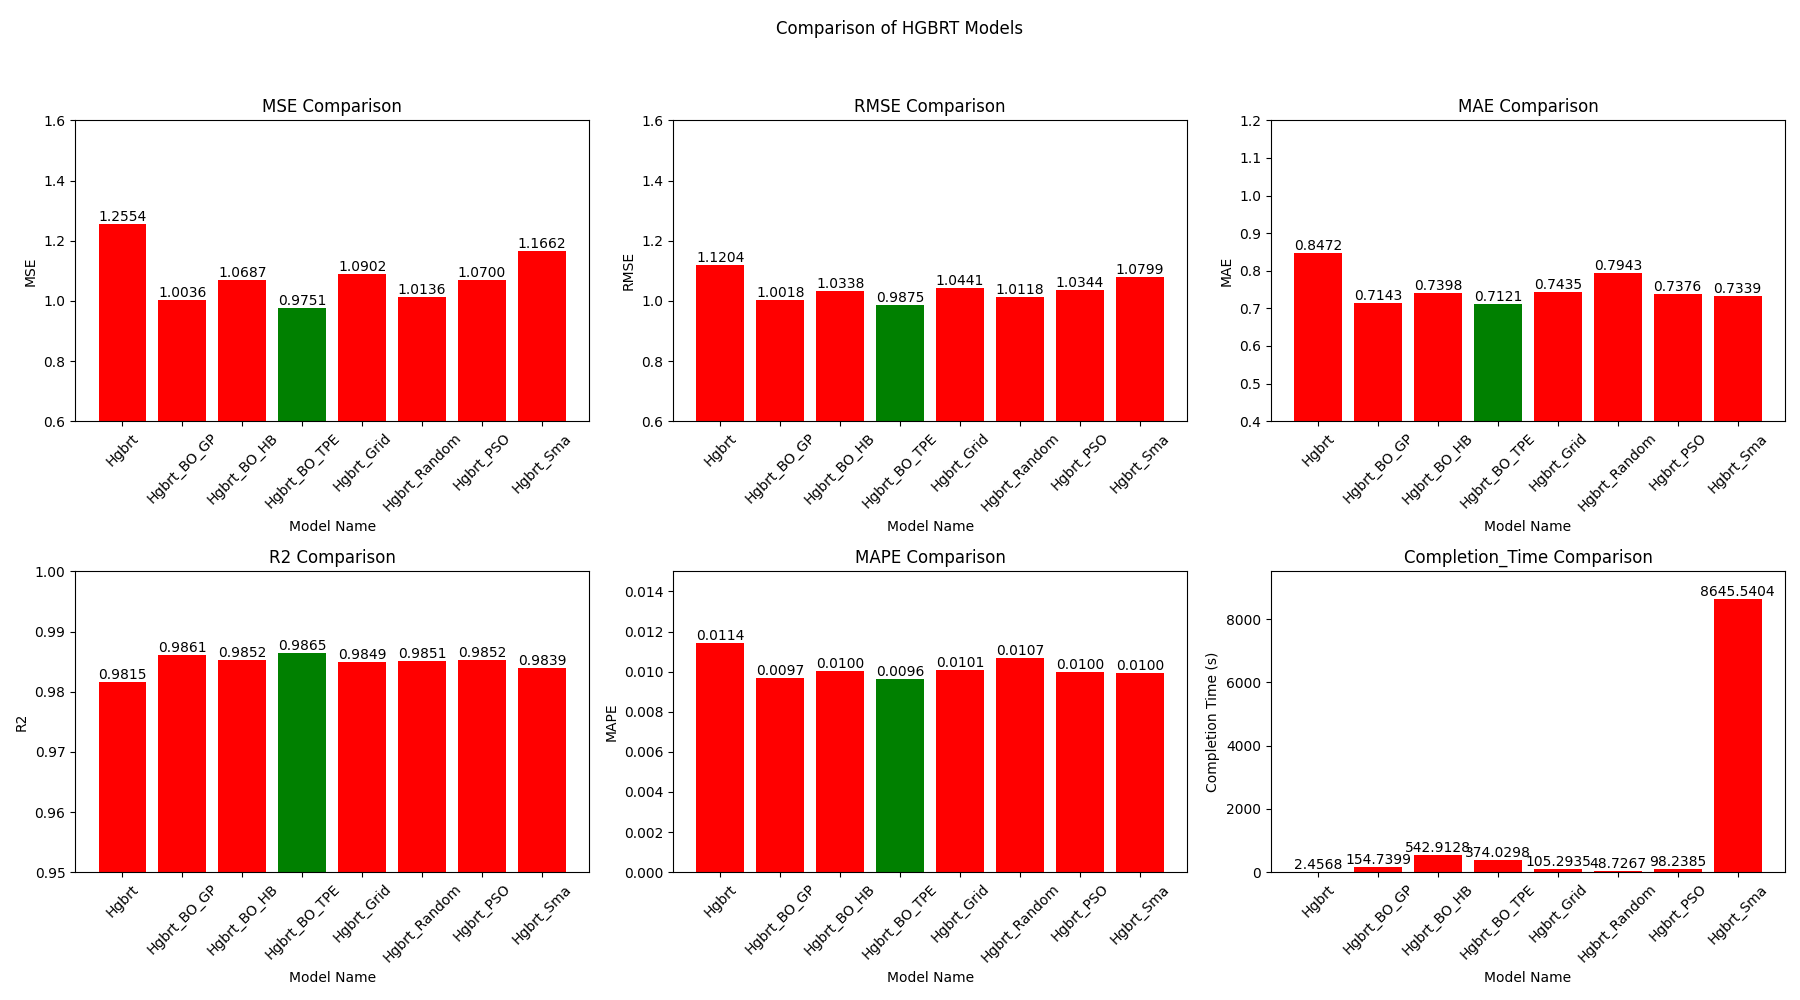
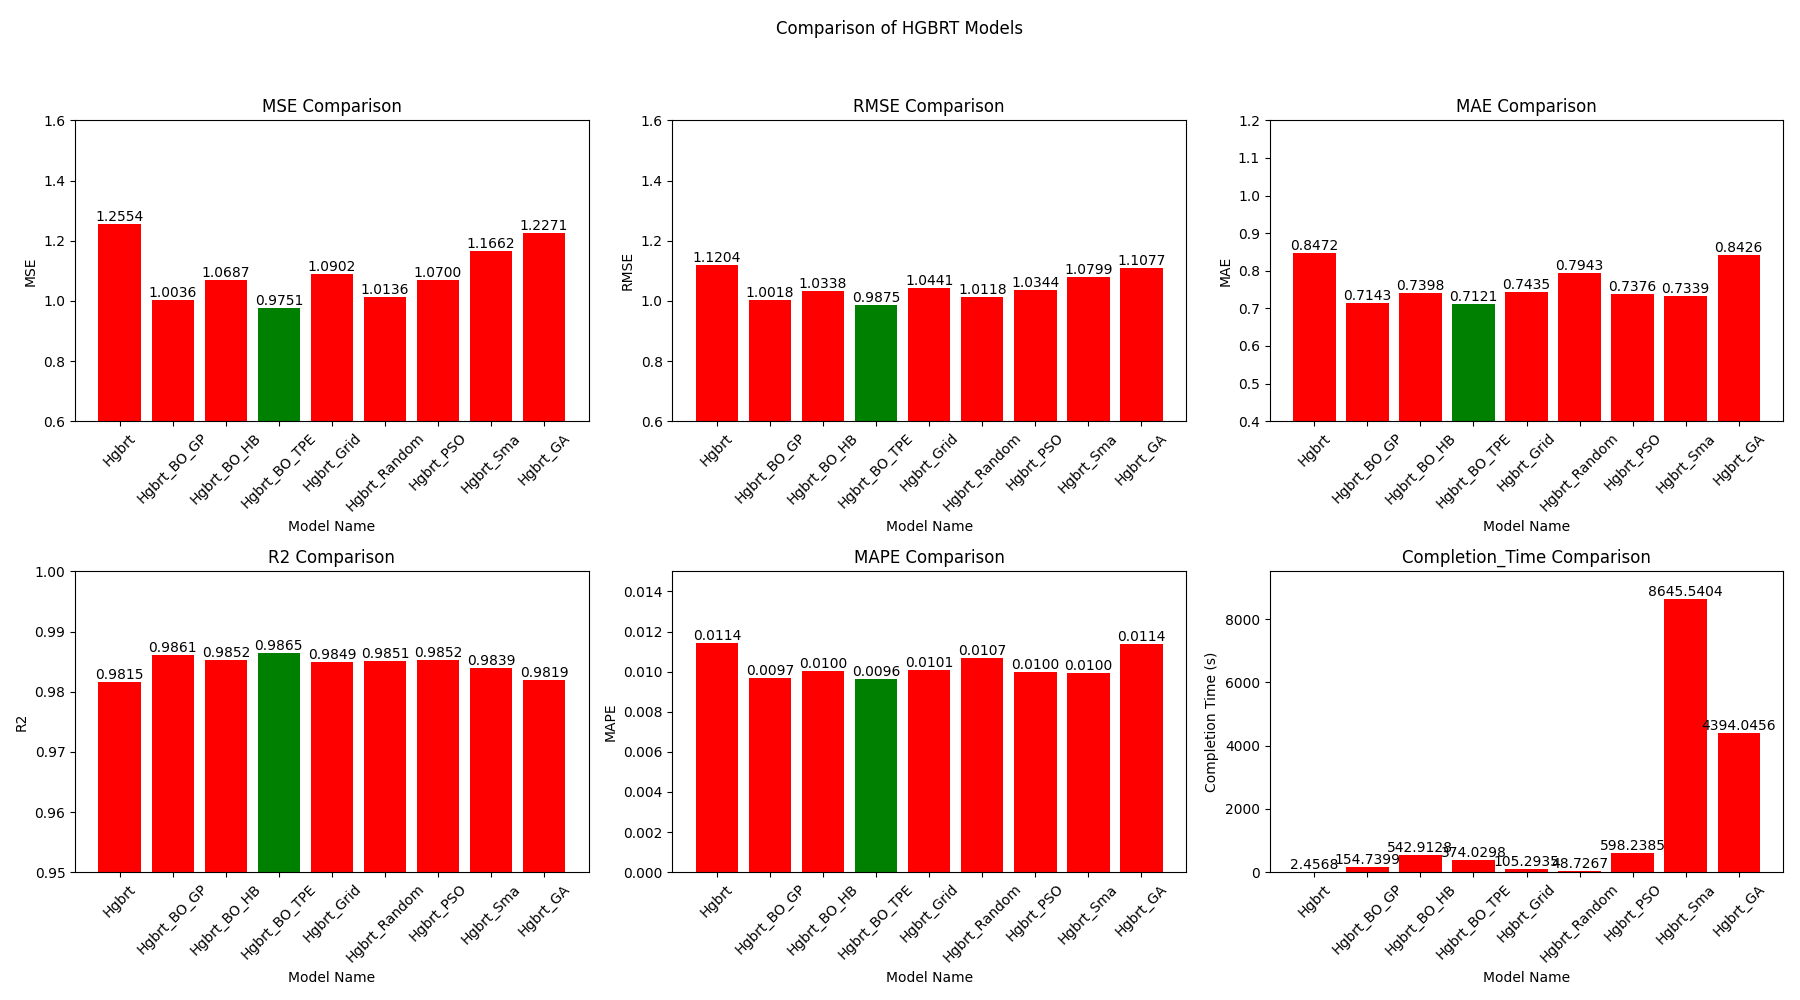
GA implemented with results

diff --git a/src/ga.py b/src/ga.py
@@ -170,7 +170,7 @@ if __name__ == "__main__":
         y_train=y_train.values,
         fitness_func=fitness_function,
         fitness_limit=0.01,  # Desired fitness level (NMSE)
-        generation_limit=50
+        generation_limit=10
     )
 
     # Set the best found parameters to the model
